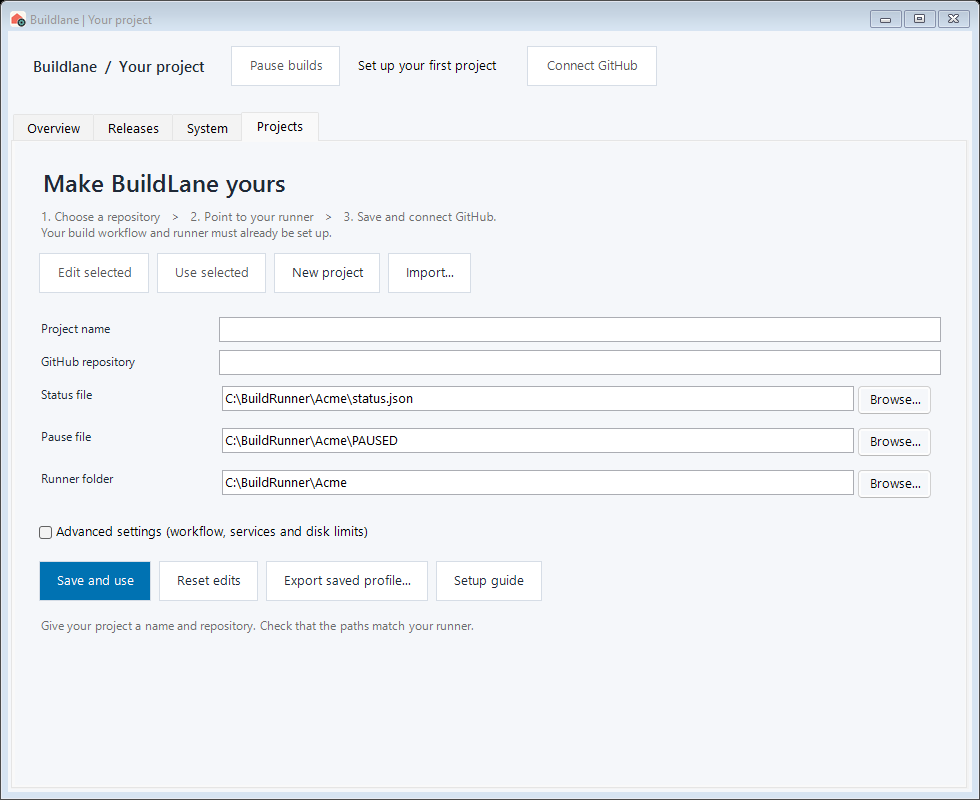
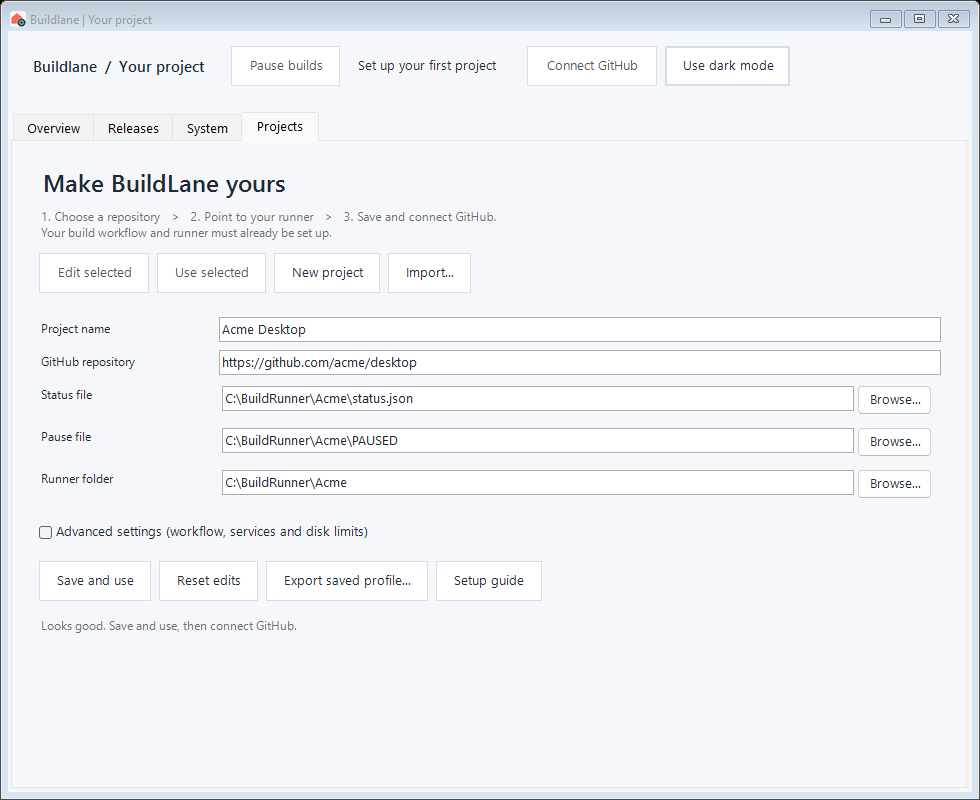
Rewrite the guide around first use, with fresh screenshots

diff --git a/README.md b/README.md
@@ -1,87 +1,171 @@
 # BuildLane
 
-**Your build queue, releases, and runner health in one Windows desktop app.**
+**Watch the build, land the changes, ship the release — from one window.**
 
-Built by Stonefletcher Productions LLC. Choose a project, see what is building, and manage releases without keeping a terminal open.
+BuildLane is a small Windows app for a self-hosted build lane. It shows what the PC is building right now, which
+changes are waiting, and which release is next, so you do not have to keep a PowerShell window open or watch GitHub
+in a browser tab.
 
-![BuildLane overview with sample build data](docs/images/overview.png)
+![The Overview tab while a batch runs tests: step 5 of 6, both progress bars, the steps so far, and the queue with each change's state](docs/images/overview.png)
 
-[Get started](docs/GETTING-STARTED.md) · [Connect your build system](docs/INTEGRATION.md) · [Troubleshooting](docs/TROUBLESHOOTING.md) · [Contribute](CONTRIBUTING.md)
+Made by Stonefletcher Productions LLC. The source is available in this repository.
 
-## What you can do
+**Jump to:** [Install](#install) · [First five minutes](#first-five-minutes) · [The four tabs](#the-four-tabs) · [Everyday tasks](#everyday-tasks) · [Where settings live](#where-your-settings-live) · [Something looks wrong](#if-something-looks-wrong) · [Developers](#for-developers)
 
-- **Recognize the app:** the running window, desktop shortcut and taskbar relaunch use the Buildlane icon and identity, even though the interface runs in PowerShell.
-- **Choose your appearance:** switch between light and dark dashboard colors; your preference is saved with your profiles.
-- **Reduce polling overhead:** runner service and cache health checks run every 30 seconds, while build progress and pause status continue updating every three seconds.
-- **See progress:** current step, elapsed time, queue, and recent logs.
-- **Know which build passed:** the overview names the latest reported build and run ID. A successful test run does not turn an unreported Package phase green or certify another release.
-- **Understand waits:** release-priority waits use neutral gray and “Waiting for … to finish”; real blockers stay highlighted.
-- **Manage releases:** view milestones and pull requests, move PRs, and queue a compatible release workflow.
-- **Know when a queued release ships:** the release row shows the cut time the backend set, so a release cannot look busy forever without saying when it ends.
-- **Switch projects:** create, import, edit, and export profiles in the app.
-- **Stay responsive:** GitHub reads and bulk PR moves happen in the background. Moves show progress, keep unconfirmed items selected, and notify the lane once.
-- **Start simply:** first-run setup, repository URL pasting, path pickers, and expandable advanced settings.
-- **Keep settings:** profiles and encrypted tokens live outside the installation folder.
+## What it does
 
-BuildLane is a desktop client for an existing build system. It does not create a runner or supply a universal CI pipeline. Local status and pause controls need the [backend contract](docs/INTEGRATION.md); GitHub connectivity alone does not make an arbitrary workflow compatible.
+- **Shows the truth about the current build** — which step, how far through, how long it has been running, and the
+  exact run it belongs to. A green test run never makes an unreported Package step look finished.
+- **Shows the queue in human words** — "Waiting for v0.2.6 to finish", "held: main is red", "waits for the next batch:
+  it conflicts with #408". Waiting is grey; a real blocker is orange; work in progress is blue.
+- **Pauses everything** — including the option to stop the build that is already running.
+- **Handles releases** — group pull requests into a release, queue its package build, and see the cut time it has to
+  ship by.
+- **Moves pull requests in bulk**, in the background, and keeps the ones that failed selected so you can retry.
+- **Keeps several projects apart** — each with its own repository, runner paths and credentials.
+- **Remembers how you left it** — window size, divider positions, light or dark, last project.
 
-## Start here
+## See it
 
-**Requirements:** Windows, Windows PowerShell 5.1, and the .NET Framework compiler. GitHub CLI is optional; the app also accepts a GitHub token.
+<p>
+  <img src="docs/images/releases.png" width="48%" alt="The Releases tab: a queued release with the time it ships by, an open release, a packaged one, and the pull request list with move controls">
+  <img src="docs/images/overview-dark.png" width="48%" alt="The same dashboard in dark mode">
+</p>
 
-1. Clone this repository, or use **Code → Download ZIP** and extract it. Organization access is required while this repository is private.
-2. Open **Windows PowerShell** in the extracted repository folder.
-3. Run:
+Left: **Releases** — a queued release says when it has to ship, and pull requests can be moved in bulk. Right: the same
+dashboard in **dark mode**.
+
+BuildLane is a front end for a build system you already have. It does not create a runner, and it does not supply a
+CI pipeline: your runner writes a small status file and the app draws it. See
+[Connect your build system](docs/INTEGRATION.md) for that contract.
+
+## Install
+
+**You need:** Windows 10 or 11, Windows PowerShell 5.1 (already installed), and the .NET Framework compiler that ships
+with Windows. GitHub CLI is optional — the app also accepts a GitHub token.
+
+1. **Get the code.** Clone the repository, or use **Code → Download ZIP** and extract it.
+2. **Open Windows PowerShell in that folder.** In Explorer, shift-right-click the folder and choose *Open PowerShell
+   window here*, or `cd` into it.
+3. **Run the installer:**
 
    ```powershell
    powershell.exe -NoProfile -ExecutionPolicy Bypass -File .\app\InstallLaneApp.ps1
    ```
 
-4. Open **Buildlane** from the new desktop icon. The PowerShell window can be closed.
-5. Enter your project name, paste its GitHub repository URL, and select your runner paths. Choose **Save and use**, then **Connect GitHub**.
+4. **Open BuildLane** from the new desktop icon. The PowerShell window that started it can be closed.
 
-![First-run project setup; paths shown are examples](docs/images/setup.png)
+![A filled first-run screen: project name, repository link and the three runner paths, with the three numbered steps at the top](docs/images/setup.png)
 
-The app installs to `%LOCALAPPDATA%\Programs\Buildlane`. Existing saved projects remain selected after an upgrade. New installations start with a neutral setup screen; the optional [LifeShare example](examples/LifeShare.profile.json) is available to import.
+The app installs into `%LOCALAPPDATA%\Programs\Buildlane`. Upgrading keeps your saved projects; a new install starts on
+a neutral setup screen. The optional [LifeShare example profile](examples/LifeShare.profile.json) can be imported if you
+want to see a filled-in project.
 
-See the [illustrated setup guide](docs/GETTING-STARTED.md) for field explanations, switching projects, and sharing profiles.
+The [illustrated setup guide](docs/GETTING-STARTED.md) explains every field, switching projects and sharing profiles.
 
-## Development and checks
+## First five minutes
 
-Run from the repository root:
+The setup screen walks the same three steps the app shows at the top:
+
+1. **Choose a repository.** Paste the GitHub URL — `https://github.com/acme/desktop` — not the `git@` clone URL. The
+   app stores `acme/desktop`.
+2. **Point to your runner.** Three paths, all on the machine that builds:
+   - *Status file* — what the runner writes while it works, e.g. `C:\BuildRunner\Acme\status.json`
+   - *Pause file* — the app creates this file when you press **Pause builds**, e.g. `C:\BuildRunner\Acme\PAUSED`
+   - *Runner folder* — the lane's working folder, used for disk checks and the log helpers
+3. **Save and use**, then **Connect GitHub**. The app uses your `gh` CLI login if it has one, otherwise paste a token.
+   The token is encrypted with Windows DPAPI and stored for your Windows user only.
+
+Press **Refresh** on Releases and the tab fills in. If the status file is missing, Overview says *No build has
+reported yet* — that is a path problem, not a crash.
+
+## The four tabs
+
+| Tab | What you do there |
+|---|---|
+| **Overview** | The live picture: the build, its step, both progress bars, the steps so far, and the queue. Buttons open the live log, the status page, and the step log. Drag the divider to give the queue more room. |
+| **Releases** | Milestones become releases. Queue a release build, unqueue or close it, and see which pull requests are in it. Tick pull requests and move them to another release in one go. |
+| **System** | Runner health: free disk, cache size, the services the lane needs. Read-only. |
+| **Projects** | The project editor: add, edit, import and export profiles, and switch which project is on screen. |
+
+## Everyday tasks
+
+| I want to… | Do this |
+|---|---|
+| Stop new builds starting | **Pause builds**. If something is building, it asks whether to stop that too. |
+| Let builds run again | **Resume builds** — the same button. |
+| Ship a release | Releases → pick it → **▶ Queue release build**. It lands that release's ready pull requests first, then packages. |
+| See when a queued release ships | The release row shows `queued: ships by HH:MM`. |
+| Move changes to another release | Tick them in the pull request list, pick a release, press **Move**. |
+| Check why a build failed | Overview → **Open live log** (GitHub) or **Show step log** (the step's log in the window). |
+| Switch project | Projects → **Use selected**. |
+| Change the look | **Use dark mode** / **Use light mode** in the top bar. |
+
+## Where your settings live
+
+| What | Where |
+|---|---|
+| The app | `%LOCALAPPDATA%\Programs\Buildlane` |
+| Projects and window layout | `%APPDATA%\Buildlane\Projects` (`default.json`, `current.txt`, `layout.txt`) |
+| GitHub token (DPAPI-encrypted) | `%APPDATA%\Buildlane\<owner_repo>\github.token` |
+| Runner helpers | `%LOCALAPPDATA%\Buildlane\Runner` |
+
+Delete a project's token file to sign out of it. Nothing is written into the installation folder, so reinstalling
+keeps your projects.
+
+## If something looks wrong
+
+- **"No build has reported yet"** — the status file path does not match what your runner writes. Check the path in
+  Projects.
+- **"No update from the build for 10 min"** — the app has the file but nothing has touched it. The build may be stuck;
+  open the live log.
+- **"Step 1 of 1" while a build is running** — something other than the lane wrote the status file (a pull request's
+  quick checks, for example). The app falls back to the standard six steps rather than showing a fake one-step job.
+- **A field is greyed out** — Overview, Releases and System are disabled until a project is saved.
+- **The window opened small** — it remembers its size. Drag it larger; the new size is kept.
+
+More, including the message you get when GitHub rate-limits the app: [Troubleshooting](docs/TROUBLESHOOTING.md).
+
+## For developers
+
+Run from the repository root (Windows PowerShell, not PowerShell 7):
 
 ```powershell
 powershell.exe -NoProfile -STA -ExecutionPolicy Bypass -File .\app\TestLaneApp.ps1
 powershell.exe -NoProfile -STA -ExecutionPolicy Bypass -File .\app\TestLaneGitHub.ps1
 powershell.exe -NoProfile -STA -ExecutionPolicy Bypass -File .\app\TestLaneOnboarding.ps1
 powershell.exe -NoProfile -STA -ExecutionPolicy Bypass -File .\app\TestLaneMoves.ps1
+powershell.exe -NoProfile -STA -ExecutionPolicy Bypass -File .\app\TestLaneResources.ps1
+powershell.exe -NoProfile -STA -ExecutionPolicy Bypass -File .\app\TestLaneProcesses.ps1
 ```
 
-These tests use temporary profiles and mocked GitHub responses. GitHub Actions runs the same checks on Windows. See [CONTRIBUTING.md](CONTRIBUTING.md) for optional live checks and screenshot generation.
-
-## Installer status
-
-The direct installation command above is the verified setup route. MSI packaging is available for testing:
+They use temporary profiles and mocked GitHub responses, and GitHub Actions runs the same checks on Windows. Nothing
+touches a real project. [CONTRIBUTING.md](CONTRIBUTING.md) covers the layout, the optional live check and how to
+regenerate the screenshots in this README:
 
 ```powershell
-powershell.exe -NoProfile -ExecutionPolicy Bypass -File .\app\BuildLaneInstaller.ps1 -Version 1.2.0
+powershell.exe -NoProfile -STA -ExecutionPolicy Bypass -File .\app\PreviewDocs.ps1 -OutDirectory .\docs\images
+powershell.exe -NoProfile -STA -ExecutionPolicy Bypass -File .\app\TestLaneOnboarding.ps1 -PreviewDirectory .\docs\images
 ```
 
-Output: `%LOCALAPPDATA%\Buildlane-Packages\Buildlane-1.2.0-unsigned.msi`.
+Both render the real interface with synthetic data — no network, no saved projects.
 
-**Signing credentials are pending.** The latest MSI still needs a clean install/upgrade/uninstall validation pass; a stuck Windows Installer transaction blocked the previous development-machine sweep. Do not treat it as a signed production release. See [packaging instructions](docs/PACKAGING.md).
+**Installer.** MSI packaging is available for testing:
+`.\app\BuildLaneInstaller.ps1 -Version 1.2.0` writes an unsigned MSI to `%LOCALAPPDATA%\Buildlane-Packages`. Signing
+credentials are pending and the latest MSI still needs a clean install/upgrade/uninstall pass, so the direct
+installation command above is the supported route. See [packaging](docs/PACKAGING.md).
 
-## Current boundaries
+## What BuildLane is not
 
-- Windows desktop only; the backend still needs an adapter for each build system.
-- Other GitHub writes (such as queuing a release) and token validation can still briefly block the interface.
-- Hosted GitHub is supported; GitHub Enterprise Server endpoints are not configurable yet.
-- Screenshots show the real app with sample project data and illustrative paths.
+- **Not cross-platform.** Windows desktop only, and the launcher runs on Windows PowerShell 5.1.
+- **Not a CI system.** It reads and drives a lane you already run. The local status and pause controls need the
+  [backend contract](docs/INTEGRATION.md); a GitHub connection alone does not make an arbitrary workflow compatible.
+- **Not a universal adapter.** Each build system needs a small adapter.
+- **Not finished.** GitHub Enterprise Server endpoints are not configurable yet, and a few GitHub writes (such as
+  queuing a release) can briefly block the window.
 
-Source originally extracted from LifeShare commit `55130dbe42ed7b77b996bec051a2f7852b9b91d0`. This repository contains the standalone app, tests, and packaging source.
+Related reading: [shared build resources and reservations](docs/RESERVATIONS.md),
+[cancelled builds and leftover processes](docs/CANCELLATION.md).
 
-## Shared local builds and captures
-
-[Resource reservations](docs/RESERVATIONS.md) let cooperating chats and scripts reserve a shared build output or GPU across worktrees. The command reports ownership, waits for busy resources, preserves exit codes, and stops its child process tree if the reservation owner closes. Existing runners and captures must opt in; installing BuildLane does not intercept running jobs.
-
-[Cancelled builds and leftover processes](docs/CANCELLATION.md) covers the other half: a cancelled or paused run ends, but the editor or commandlet it started keeps running and holds the workspace's files, so the next job on that runner fails to link or write. The page states what a backend must do and ships a reference script to copy into its CI folder.
+The app was originally extracted from LifeShare commit `55130dbe42ed7b77b996bec051a2f7852b9b91d0`; this repository
+holds the standalone app, its tests and its packaging source.

diff --git a/CONTRIBUTING.md b/CONTRIBUTING.md
@@ -23,14 +23,19 @@ powershell.exe -NoProfile -STA -ExecutionPolicy Bypass -File .\app\TestLaneGitHu
 
 ## Screenshots
 
-The documentation images are rendered from the real Windows Forms interface with synthetic data. Regenerate them after UI changes:
+The documentation images are rendered from the real Windows Forms interface with synthetic data. No network calls, no
+saved projects: each script builds a temporary profile and throws it away.
 
 ```powershell
-powershell.exe -NoProfile -STA -ExecutionPolicy Bypass -File .\app\TestLaneOnboarding.ps1
-powershell.exe -NoProfile -STA -ExecutionPolicy Bypass -File .\app\TestLaneMoves.ps1 -PreviewDirectory .\docs\images
+# The dashboard (light and dark) and the Releases tab
+powershell.exe -NoProfile -STA -ExecutionPolicy Bypass -File .\app\PreviewDocs.ps1 -OutDirectory .\docs\images
+# The first-run screen and the project editor
+powershell.exe -NoProfile -STA -ExecutionPolicy Bypass -File .\app\TestLaneOnboarding.ps1 -PreviewDirectory .\docs\images
 ```
 
-Review the resulting images for clipping and accidental personal data before committing them.
+`PreviewDocs.ps1` writes `overview.png`, `overview-dark.png` and `releases.png`; the onboarding test writes `setup.png`
+and `projects.png`. Both render at the app's normal window size, so a layout change that clips a button shows up in the
+images. Review the results for clipping and accidental personal data before committing them.
 
 ## Layout
 
@@ -43,6 +48,7 @@ Review the resulting images for clipping and accidental personal data before com
 | `app/LaneRefresh.ps1`, `app/LaneGitHub.ps1` | Background reads and pagination |
 | `app/BuildLaneLauncher.cs` | Console-free Windows launcher |
 | `app/InstallLaneApp.ps1`, `app/BuildLaneInstaller.ps1` | Local installation and MSI packaging |
+| `app/PreviewDocs.ps1` | Renders the documentation screenshots from the real interface with fixture data |
 | `docs/`, `examples/` | User guides and sample integrations |
 
 Update the README and relevant guide when behavior changes. Do not add credentials, personal profiles, generated binaries, or game assets. Signing and production release validation are separate from regression tests.

diff --git a/docs/GETTING-STARTED.md b/docs/GETTING-STARTED.md
@@ -14,6 +14,10 @@ Open the **Buildlane** desktop shortcut. Installation is per Windows user; it do
 
 New installations open **Projects**. Existing installations retain their selected project; choose **New project** to add another.
 
+![First run: the three numbered steps, a project name, a repository link and the three runner paths](images/setup.png)
+
+The screen lists the same three steps it asks for: choose a repository, point to your runner, save and connect GitHub. Everything below that is a field in that order.
+
 ![Project editor with a saved sample project](images/projects.png)
 
 | Field | What to enter |
@@ -46,6 +50,8 @@ Saved app tokens are encrypted for your Windows user and stored separately from 
 | Releases | Refresh GitHub milestones and PRs; manage releases for a compatible lane. |
 | System | Check local runner services, drive space, and optional cache endpoint. |
 | Projects | Edit, import, export, and switch saved project profiles. |
+
+The Overview tab is split: the build above, the queue below. Drag the divider between them (and between the release list and the pull request list on Releases) to give either side more room; the app remembers those positions, the window size and the light or dark choice. **Use dark mode** / **Use light mode** is in the top bar.
 
 **No build has reported yet** means the configured status file is missing. It is not a GitHub authentication failure. See [integration](INTEGRATION.md) to connect a producer.
 
